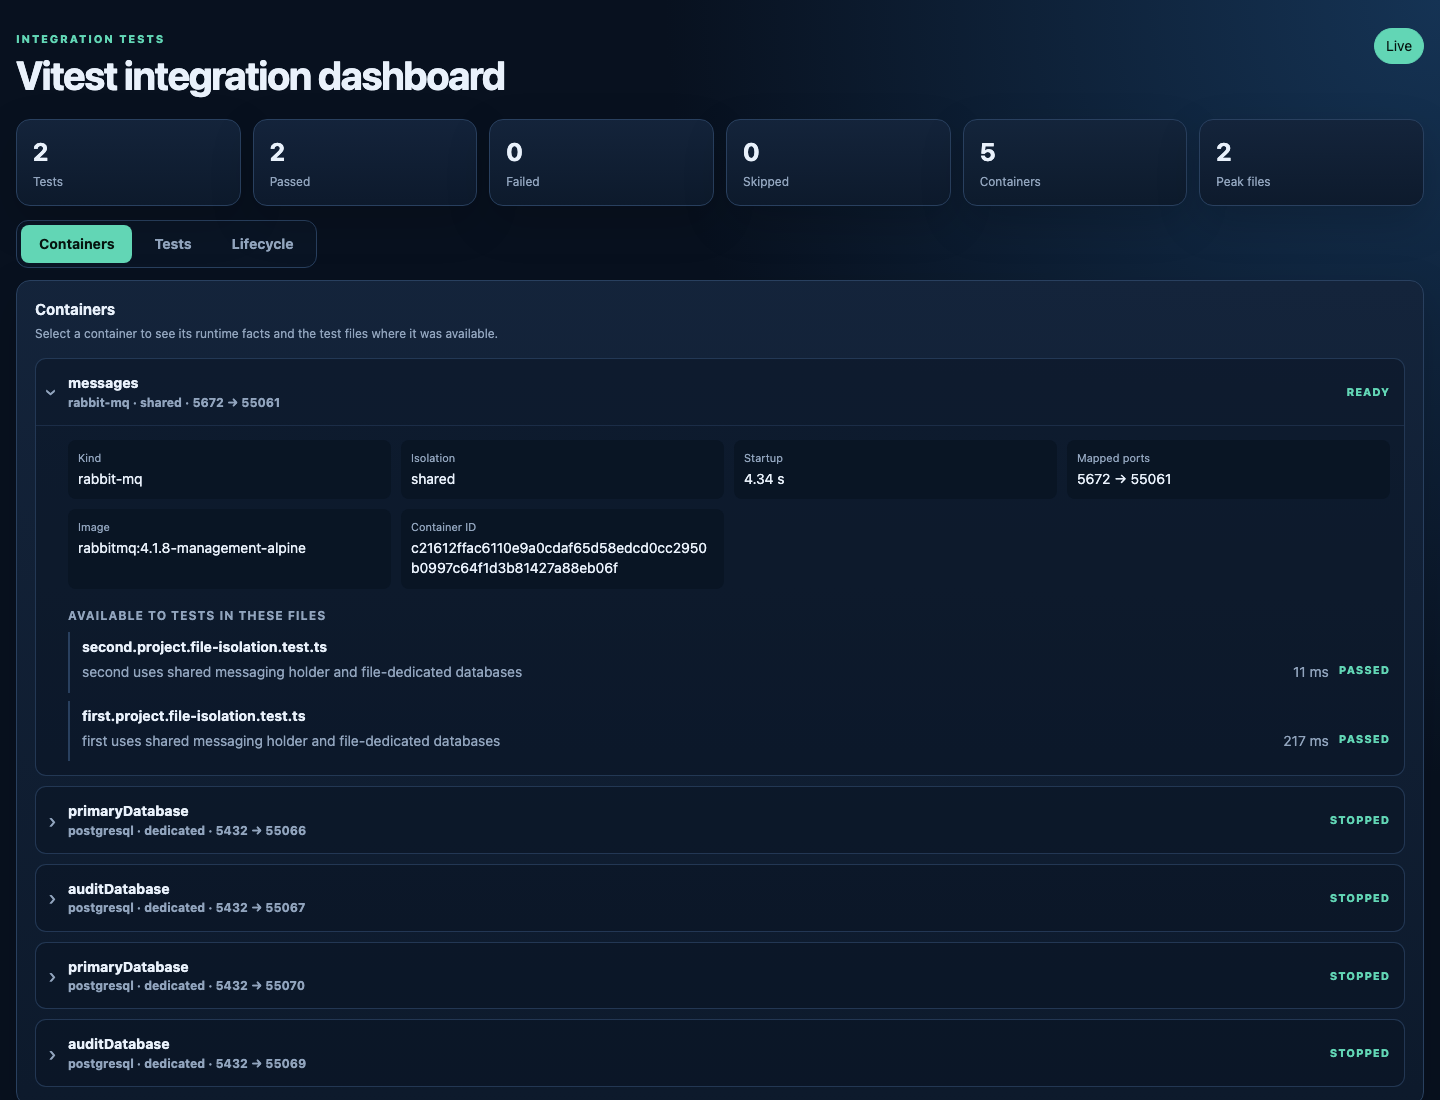
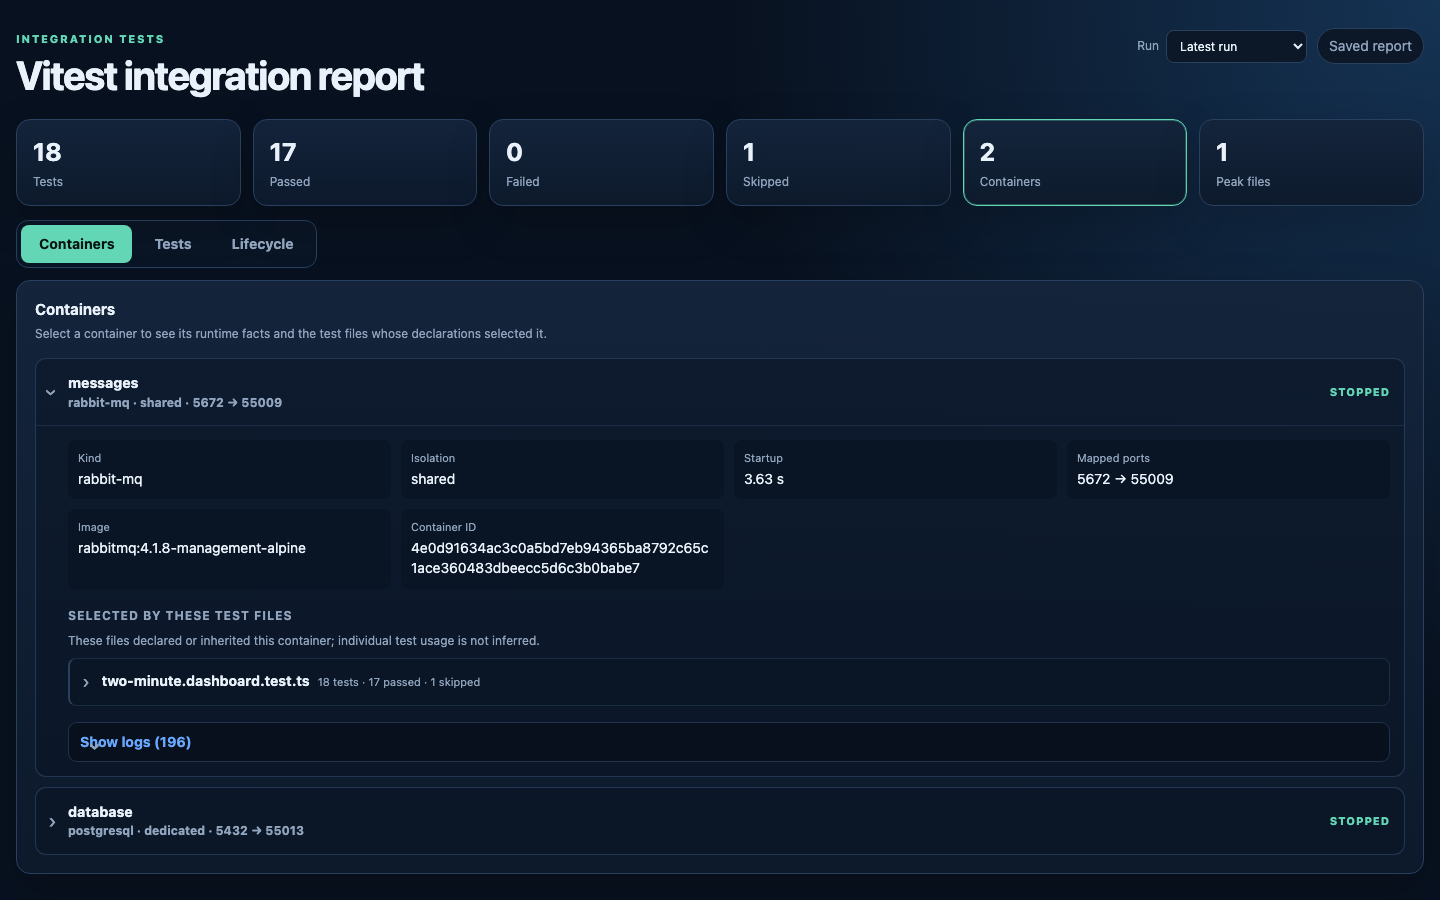
docs: add dashboard screenshot

diff --git a/README.md b/README.md
@@ -151,7 +151,9 @@ export default defineAnnotationProject({
 
 No separate dashboard package, reporter registration, or browser dependency is needed. Run the same Jest or Vitest command you already use. When the run begins, the library prints a token-protected `127.0.0.1` URL. It does not open a browser unless you explicitly request it. After global teardown finishes, it saves a self-contained report under `test-results/integration-testing/<run-id>/index.html`.
 
-![Local integration-test dashboard](https://raw.githubusercontent.com/RolandSall/testcontainers-integration/main/docs/dashboard.png)
+[![Local integration-test dashboard showing real Vitest, RabbitMQ, and PostgreSQL results](https://raw.githubusercontent.com/RolandSall/testcontainers-integration/main/docs/dashboard.png)](https://github.com/RolandSall/testcontainers-integration/blob/main/docs/dashboard.png)
+
+_Captured from a real Vitest run using a shared RabbitMQ container and a file-dedicated PostgreSQL container. Select the image to open the full-size dashboard._
 
 Advanced settings:
 

diff --git a/packages/testcontainers-integration/README.md b/packages/testcontainers-integration/README.md
@@ -151,7 +151,9 @@ export default defineAnnotationProject({
 
 No separate dashboard package, reporter registration, or browser dependency is needed. Run the same Jest or Vitest command you already use. When the run begins, the library prints a token-protected `127.0.0.1` URL. It does not open a browser unless you explicitly request it. After global teardown finishes, it saves a self-contained report under `test-results/integration-testing/<run-id>/index.html`.
 
-![Local integration-test dashboard](https://raw.githubusercontent.com/RolandSall/testcontainers-integration/main/docs/dashboard.png)
+[![Local integration-test dashboard showing real Vitest, RabbitMQ, and PostgreSQL results](https://raw.githubusercontent.com/RolandSall/testcontainers-integration/main/docs/dashboard.png)](https://github.com/RolandSall/testcontainers-integration/blob/main/docs/dashboard.png)
+
+_Captured from a real Vitest run using a shared RabbitMQ container and a file-dedicated PostgreSQL container. Select the image to open the full-size dashboard._
 
 Advanced settings:
 

diff --git a/docs/releases/0.2.0.md b/docs/releases/0.2.0.md
@@ -9,6 +9,7 @@ Version 0.2.0 adds an opt-in live dashboard and self-contained HTML reports for 
 - Filter, sort, and paginate test results, compare test durations with the run average, and inspect explicitly enabled container logs.
 - Keep multiple Vitest watch reruns in one live session while saving a report for every completed run.
 - Use the same feature with Jest or Vitest, annotation mode or project configuration mode, and NestJS or another Node.js backend.
+- Preview the dashboard in the README through a screenshot captured from a real Vitest run with shared RabbitMQ and dedicated PostgreSQL containers.
 
 ## Backward compatibility
 
